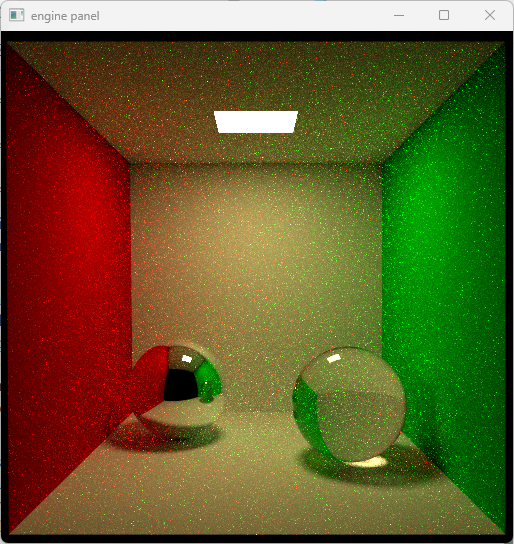
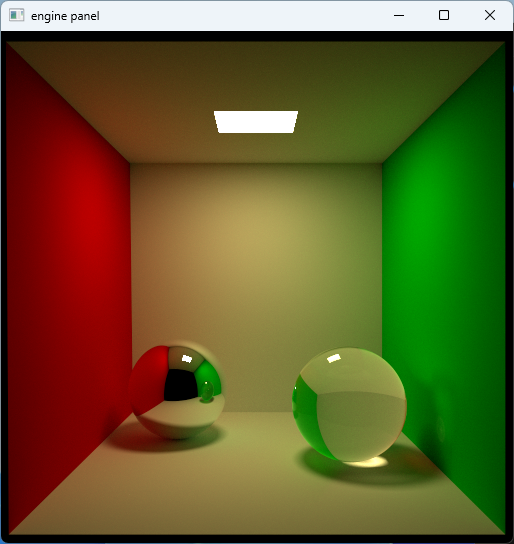
Update worksheet 8

diff --git a/journal/src/worksheet_8.md b/journal/src/worksheet_8.md
@@ -1,27 +1,143 @@
 
-# Worksheet 8 - Transparency
+## Worksheet 8 - Transparency
 
-# 1. Fresnel reflectance
+### 1. Fresnel reflectance
 
-Done.
+To do specular reflections initially, we used the Phong model. The Phong model is popular in real time graphics (well, technically Blinn-Phong is although it is almost identical to Phong) because it creates an acceptable result in many materials very cheaply. However, let's take a look at our Phong reflection one more time.
+
+![](./img/w6_e3.png)
+
+That is not quite right. First of all, our light source has a square shape but our specular reflection is an oval. Also something about the glass sphere just looks off, it doesn't look like it belongs in the scene. Time to add a better model.
+
+We need the Fresnel equations this time:
+
+```rs
+fn fresnel_r(cos_thet_i: f32, cos_thet_t: f32, ni_over_nt: f32) -> f32 {
+    let ii = ni_over_nt * cos_thet_i;
+    let tt = 1.0 * cos_thet_t;
+    let ti = 1.0 * cos_thet_i;
+    let it = ni_over_nt * cos_thet_t;
+
+    let r1 = (ii - tt) / (ii + tt);
+    let r2 = (ti - it) / (ti + it);
+    let R = 0.5 * (r1 * r1 + r2 * r2);
+    return R;
+}
+```
+
+We only keep track of relative indices of refraction in our path tracer but as it turns out, if we set one value to 1.0, the equations still work.
+
+```rs
+fn transparent(r: ptr<function, Ray>, hit: ptr<function, HitRecord>, rand: ptr<function, u32>) -> vec3f {
+    let w_i = -normalize((*r).direction);
+    let normal = normalize((*hit).normal);
+    var out_normal = vec3f(0.0);
+    var ior = (*hit).ior1_over_ior2;
+    // figure out if we are inside or outside
+    var cos_thet_i = dot(w_i, normal);
+    // normals point outward, so if this is positive
+    // we are inside the object
+    // and if this is negative, we are outside
+    if (cos_thet_i < 0.0) {
+        // outside
+        cos_thet_i = dot(w_i, -normal); 
+        out_normal = -normal;
+    } else {
+        // inside
+        ior = 1.0 / ior;
+        out_normal = normal;
+    }
+
+    let cos_thet_t_2 = (1.0 - (ior*ior) * (1.0 - cos_thet_i * cos_thet_i));
+    var reflection_prob = 0.0;
+    if (cos_thet_t_2 < 0.0) {
+        // total internal reflection
+        reflection_prob = 1.0;
+    } else {
+        reflection_prob = fresnel_r(cos_thet_i, sqrt(cos_thet_t_2), ior);
+    }
+    let tangent = out_normal * cos_thet_i - w_i;
+    
+    let w_t = ior * tangent - (out_normal * sqrt(cos_thet_t_2));
+    let orig = (*hit).position;
+
+    *r = ray_init(w_t, orig); 
+    (*hit).has_hit = false;
+    
+    let step = rnd(rand);
+    if (step < reflection_prob) {
+        (*hit).normal = out_normal;
+        return mirror(r, hit, rand);
+    } else {
+        return vec3f(0.0);
+    }
+}
+```
+
+The transparent shader is much like the transmit shader, however we now use the fresnel equations to sample reflection events. A reflection is just the mirror shader.
+
+With one sample, it is not obvious that we solved the issue:
 
 ![](./img/w8_e1_one_sample.png)
 
+But as it turns out, we converge quickly:
+
 ![](./img/w8_e1.png)
 
-# 2. Indirect illumination
+Something is a bit off however, the edges of the transmitting sphere should be a bit brighter.
+
+### 2. Indirect illumination
+
+In this part, we now have to add back indirect lighting.
+
+```rs
+fn mirror(r: ptr<function, Ray>, hit: ptr<function, HitRecord>, rand: ptr<function, u32>) -> vec3f { 
+    /* snip */ 
+
+    (*hit).emit = true;
+    return vec3f(0.0, 0.0, 0.0);
+}
+
+fn transparent(r: ptr<function, Ray>, hit: ptr<function, HitRecord>, rand: ptr<function, u32>) -> vec3f {
+    /* snip */
+
+    (*hit).emit = true; // change
+
+    let step = rnd(rand);
+    if (step < reflection_prob) {
+        (*hit).normal = out_normal;
+        return mirror(r, hit, rand);
+    } else {
+        return vec3f(0.0);
+    }
+}
+
+```
+
+Not a whole lot changes besides having to set the emit flag in a few more places. With one sample:
 
 ![](./img/w8_e2_one_sample.png)
 
+And with many samples:
+
 ![](./img/w8_e2.png)
 
+The image is once again off at the edges of the transmitting sphere.
 
-# 3. Absorption
+### 3. Absorption
 
 ![](./img/w8_e3_bad.png)
 
 ![](./img/w8_e3_better.png)
 
 Correctness?
+
+I do not think that I did this part correctly, there is likely somewhere I forgot a scaling factor. I will use another example for this.
+
+![](./img/w8_e3_issues.png)
+
+The area underneath the sphere here is way too bright, it is so bright that it actually has a bright reflection on the wall. When I use low extinction values (not in the hundreds), I get a rather bright spot under the sphere but a heavily tinted sphere still. This makes sense to me since our scale is in centimeters and the extinction coefficient isn't really meant to be between 0 and 1 as far as I can understand, so this might make sense, but I might also be missing something.
+
+Here is also what a single sample looks like:
 
 ![](./img/w8_e3_one_sample.png)
